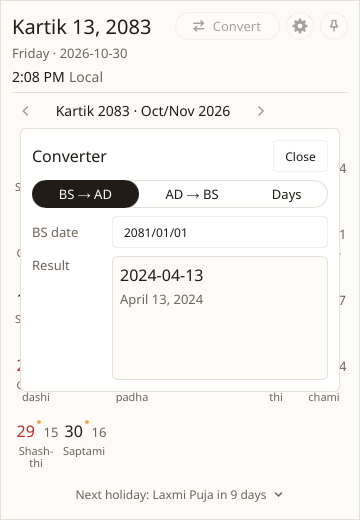
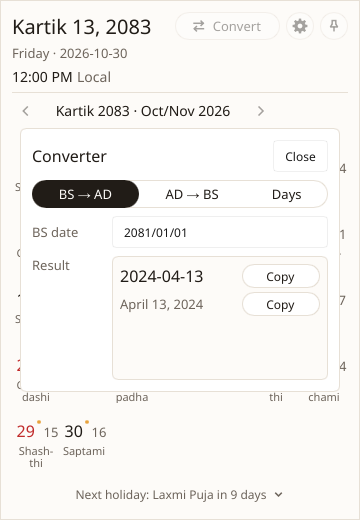
feat(site): MitiBar 1.0 screenshots and docs (#29)
* feat(site): MitiBar 1.0 screenshots, copy and swap, new size numbers

The screenshots show 1.0's default lines, the four presets, the swap button, the Copy buttons and today's tile. The binary and idle memory numbers come from the 1.0 benchmarks: the font subsets made the app smaller. Merge with the 1.0.0 release, since the downloads still point at beta.3 until then.

* docs(site): MitiBar 1.0 defaults, presets and converter copy on the docs page

The docs page still described the beta's default lines and called the app an unsigned beta, and the hub README pointed at 0.2.0-beta.2. They now match 1.0 and link the latest release, so the version cannot go stale there.

Changed region(s): [[0.3361, 0.4923, 0.5806, 0.6154], [0.7333, 0.5231, 0.825, 0.6154], [0.0306, 0.1231, 0.3056, 0.1538]]

diff --git a/site/src/data/mitibar.ts b/site/src/data/mitibar.ts
@@ -56,11 +56,14 @@ export const SBOM = file(`MitiBar-${MITIBAR_VERSION}.cdx.json`);
 export const BENCHMARKS = `${MITIBAR_REPO}/blob/main/docs/benchmarks-widget.md`;
 export const SIGNING_POLICY = `${MITIBAR_REPO}#code-signing-policy`;
 
-/** Measured on 2026-10-19 on one Windows 11 laptop (Core i5-12500H); see BENCHMARKS. */
+/**
+ * Measured on one Windows 11 laptop (Core i5-12500H); see BENCHMARKS. The binary and idle memory
+ * are from 2026-10-30, in MiB; the start time is from 2026-10-19.
+ */
 export const numbers = {
-  binaryMb: "11.6",
+  binaryMb: "11.0",
   startMs: "68",
-  privateMb: "34",
+  privateMb: "33",
   machine: "a Windows 11 laptop with a Core i5-12500H",
 };
 

diff --git a/README.md b/README.md
@@ -54,7 +54,7 @@ lines, with the exact version, are in each repository's README and its GitHub re
 
 | App | What it is | Where |
 |---|---|---|
-| MitiBar | Tray calendar for Windows, macOS and Linux, with a floating date bar on Windows, built on the Rust library | [0.2.0-beta.2](https://github.com/sanamhub/mitibar/releases/tag/v0.2.0-beta.2), unsigned pre-release, in its own repository [mitibar](https://github.com/sanamhub/mitibar) |
+| MitiBar | Tray calendar for Windows, macOS and Linux, with a floating date bar on Windows, built on the Rust library | [latest release](https://github.com/sanamhub/mitibar/releases/latest), not code-signed yet, in its own repository [mitibar](https://github.com/sanamhub/mitibar) |
 | NepDate for Android and iOS | Month view, holidays, widgets; no ads, account or network | [nepdate-mobile](https://github.com/sanamhub/nepdate-mobile), in development |
 
 ## How the ports use this repository
